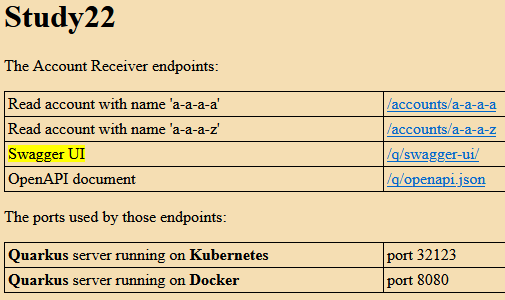
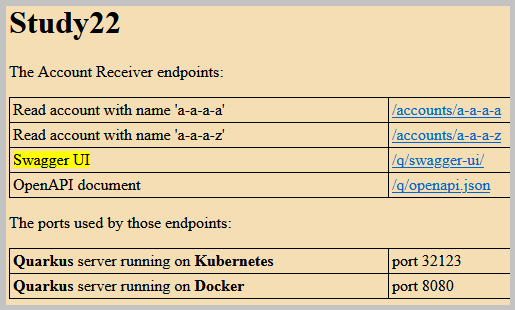
-

Changed region(s): [[0.0, 0.0, 1.0, 1.0]]

diff --git a/docs/000-r-e-a-d-m-e.html b/docs/000-r-e-a-d-m-e.html
@@ -137,7 +137,8 @@ of the batch file
 <img src="images/orangeSquare.png"><img src="images/spacer-32.png">Before this batch execution the application should be not running.<br>
 <img src="images/orangeHR-500.png"></P>
 <P>
-The Kubernetes pod 'study22-acc-receiver' log <a href="images/AccountReceiverStart.png">screenshot</a> from the Quarkus start.
+The <a href="images/AccountReceiverStart.png">screenshot</a> 
+of the Kubernetes pod 'study22-acc-receiver' log from the Quarkus application start.
 </P>
 
 <P><img src="images/greenCircle.png">
@@ -155,8 +156,8 @@ The service method for the MongoDB database
 kp.services.AccountMongoService::processPayload</a> creates the MongoDB entity from the Kafka record payload.
 </P>
 <P>
-The Kubernetes pod 'study22-acc-receiver' log <a href="images/AccountReceiverProcessPayload.png">screenshot</a>
- from the 26 Kafka records payload processing.
+The <a href="images/AccountReceiverProcessPayload.png">screenshot</a> 
+of the Kubernetes pod 'study22-acc-receiver' log from the 26 Kafka records payload processing.
 </P>
 
 <P><img src="images/greenCircle.png">
@@ -182,7 +183,8 @@ The service method for the PostgreSQL database
 kp.services.AccountPostgresService::createAccount</a> creates a new PostgreSQL entity from existing MongoDB entity.
 </P>
 <P>
-The Kubernetes pod 'study22-acc-receiver' log <a href="images/AccountReceiverReadAccount.png">screenshot</a> from two accounts reading.
+The <a href="images/AccountReceiverReadAccount.png">screenshot</a> 
+of the Kubernetes pod 'study22-acc-receiver' log from two accounts reading.
 </P>
 
 <P><img src="images/greenCircle.png">
@@ -191,13 +193,15 @@ The Kubernetes pod 'study22-acc-receiver' log <a href="images/AccountReceiverRea
 <IMG src="images/MermaidSequenceDiagram3.png" height="615" width="810"/>
 
 <P><img src="images/greenCircle.png">
-2.5. The REST endpoint. The web resources were placed in directory 
+2.5. The Account Receiver frontend.
+<P>
+</P>
+ The web resources for Quarkus were placed in the directory 
 <a href="https://github.com/k1729p/Study22/blob/main/account-receiver/src/main/resources/META-INF/resources"
 >'src/main/resources/META-INF/resources'</a>.
 </P>
 <P>
-The Account Receiver <a href="https://github.com/k1729p/Study22/blob/main/account-receiver/src/main/resources/META-INF/resources/index.html"
->home page</a>:
+The <a href="https://github.com/k1729p/Study22/blob/main/account-receiver/src/main/resources/META-INF/resources/index.html">home page</a> URL:
 <UL>
 <LI>on Kubernetes - <a href="http://localhost:32123/">http://localhost:32123/</a></LI>
 <LI>on Docker - <a href="http://localhost:8080/">http://localhost:8080/</a></LI>
@@ -209,23 +213,28 @@ The Account Receiver <a href="https://github.com/k1729p/Study22/blob/main/accoun
 <img src="images/blackArrowUp.png">
 <I>The screenshot of the home page.</I>
 </P>
-<P>
-The Swagger UI page <a href="images/ScreenshotSwaggerUI.png">screenshot</a>. 
-The OpenAPI document page <a href="images/ScreenshotOpenApiJson.png">screenshot</a>.
-</P>
 
-<P>Reading the account with given name.
+<P>
+Reading the account with the given name.
+</P>
 <P>
 <IMG src="images/EndpointReadAccount.png" height="320" width="305"/><BR>
 <img src="images/blackArrowUp.png">
-<I>The result from the endpoint 'Read account with name'.</I>
+<I>The JSON result in the Firefox Browser from the endpoint path '/accounts/a-a-a-a'.</I>
+</P>
+
+<P>
+The <a href="images/ScreenshotSwaggerUI.png">screenshot</a> of the Swagger UI page.  
+</P>
+<P>
+The <a href="images/ScreenshotOpenApiJson.png">screenshot</a> of the OpenAPI document page.
 </P>
 
 <a href="#top">Back to the top of the page</a>
 <HR/>
 <H3 id="THREE">❸ Account Sender</H3>
 <P><img src="images/greenCircle.png">
-3.1 The Java application with Kafka producer runs in endless loop. 
+3.1 The Account Sender application with Kafka producer runs in endless loop. 
 </P>
 
 <P>

diff --git a/docs/README.md b/docs/README.md
@@ -209,9 +209,9 @@ The <a href="https://github.com/k1729p/Study22/blob/main/account-receiver/src/ma
 </P>
 
 <P>
-<IMG src="images/ScreenshotHomePage.png" height="300" width="505"/><BR>
+<IMG src="images/ScreenshotHomePage.png" height="310" width="515"/><BR>
 <img src="images/blackArrowUp.png">
-<I>The screenshot of the home page.</I>
+<I>The screenshot of the home page fragment.</I>
 </P>
 
 <P>
